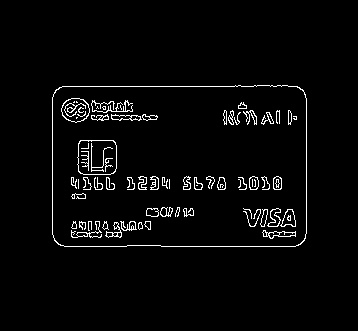
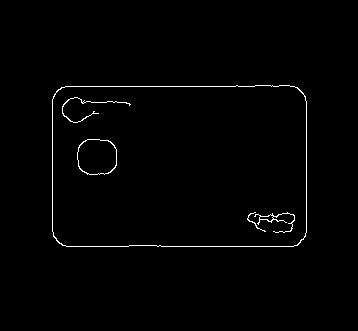
add median filter

diff --git a/CreditCardDetection.py b/CreditCardDetection.py
@@ -5,6 +5,7 @@
 
 import cv2 
 import argparse
+import numpy as np
 
 '''
 Canny Edge Detection
@@ -20,9 +21,14 @@ def CannyDetector(threshold):
 	# Smooth image by gaussian filter
 	img_blur = cv2.GaussianBlur(src, (5, 5), 0)
 
+	# Clean text by median filter
+	img_blur = cv2.medianBlur(img_blur, 17)
+
 	# Detect edges using canny detector
 	edge_map = cv2.Canny(img_blur, threshold, threshold*3, 3)
 	cv2.imshow(window_name, edge_map)
+
+	return edge_map
 
 
 # Take arguments from command line 
@@ -44,15 +50,39 @@ cv2.createTrackbar(title, window_name , 1, 100, CannyDetector)
 CannyDetector(1)
 cv2.waitKey()
 
-# Save the threshold we choose 
+# Save the threshold we choose before destroy
 chosen_threshold = cv2.getTrackbarPos(title, window_name)
 cv2.destroyAllWindows()
 
-
 # Generate edge_map by chosen threshold
-img_blur = cv2.GaussianBlur(src, (5, 5), 0)
-edge_map = cv2.Canny(img_blur, chosen_threshold, chosen_threshold*3, 3)
+edge_map = CannyDetector(chosen_threshold)
 
 # Save edge map image in './images' folder
-cv2.imwrite("./images/test{}_edge_map.jpg".format(args.input[-5]), edge_map)
-print("./images/test{}_edge_map.jpg saved!".format(args.input[-5]))
+cv2.imwrite('./images/test{}_edge_map.jpg'.format(args.input[-5]), edge_map)
+print('./images/test{}_edge_map.jpg saved!'.format(args.input[-5]))
+
+'''
+Hough Line Transform
+'''
+
+lines = cv2.HoughLines(edge_map, 1, (np.pi/180), 100)
+img = cv2.cvtColor(edge_map,cv2.COLOR_GRAY2RGB)
+
+# Draw red lines on image using theta and rho
+for rho,theta in lines[:,0,:]:
+	a = np.cos(theta)
+	b = np.sin(theta)
+	x0 = a*rho
+	y0 = b*rho
+	x1 = int(x0 + 1000*(-b))
+	y1 = int(y0 + 1000*(a))
+	x2 = int(x0 - 1000*(-b))
+	y2 = int(y0 - 1000*(a))
+	cv2.line(img, (x1, y1), (x2, y2), (0,0,255), 2)
+
+cv2.imshow(window_name, img)
+cv2.waitKey()
+
+# Save hough line image 
+cv2.imwrite('./images/test{}_hough_line.jpg'.format(args.input[-5]), img)
+print('./images/test{}_hough_line.jpg saved!'.format(args.input[-5]))

diff --git a/FeatureExtract.py b/FeatureExtract.py
@@ -1,10 +1,11 @@
 '''
-@File FeatureTest.py
-@Brief Test two features, corner and line, to find a robust feature for detection
+@File FeatureExtract.py
+@Brief Extract two features, corner and line, to find a more robust feature for detection
 '''
 
 import cv2
 import numpy as np
+import argparse
 
 '''
 Harris Corner Detection
@@ -47,8 +48,16 @@ def LineDetector(threshold):
 
 if __name__=='__main__':
 
-	# Read edge_map image
-	edge_map = cv2.imread('./images/test1_edge_map.jpg',  cv2.CV_8UC1)
+	# Take arguments from command line 
+	parser = argparse.ArgumentParser()
+	parser.add_argument('-input', default='./images/test1_edge_map.jpg')
+	args = parser.parse_args()
+
+	# Read input image
+	edge_map = cv2.imread(args.input, cv2.CV_8UC1)
+	if edge_map is None:
+	    print('Couldn\'t open', args.input)
+	    exit(0)
 
 	# Parameter for CornerHarris tracker bar
 	window_name = 'Corner Detector'
@@ -67,7 +76,7 @@ if __name__=='__main__':
 
 	# Run Hough Line Transformation
 	cv2.namedWindow(window_name)
-	cv2.createTrackbar(title, window_name, 10, 50, LineDetector)
-	LineDetector(1)
+	cv2.createTrackbar(title, window_name, 10, 20, LineDetector)
+	LineDetector(10)
 	cv2.waitKey()
 	cv2.destroyAllWindows()
